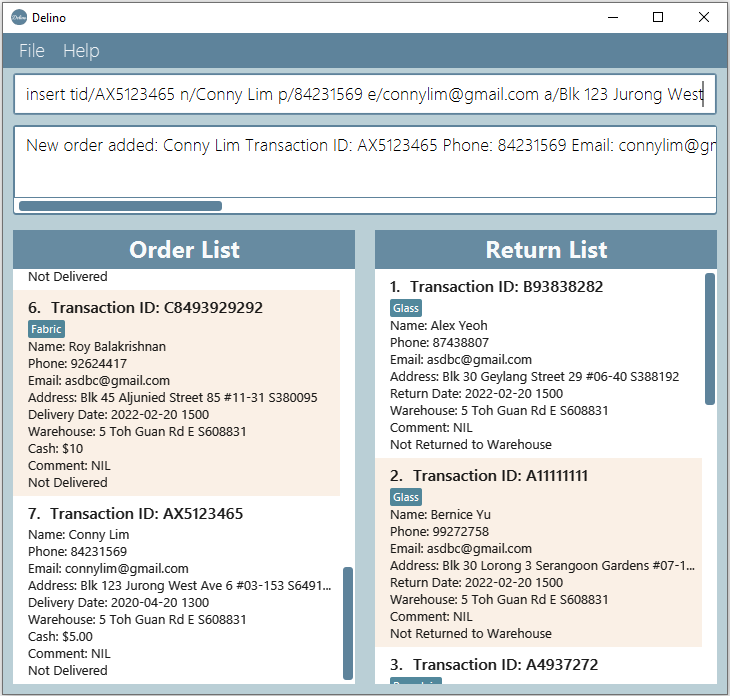
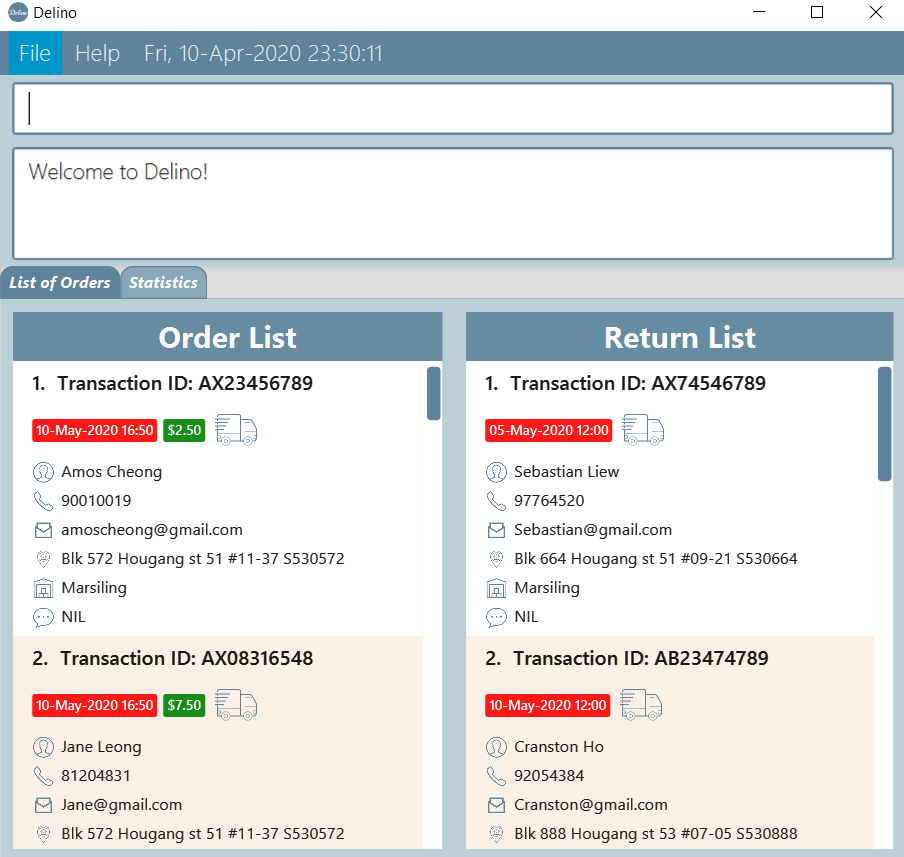
Rebuild pages at 79c6d8f9eea6ae6a86967fa99f5e92033f108ee2

diff --git a/team/khsc96.html b/team/khsc96.html
@@ -79,10 +79,10 @@ This feature requires a thorough understanding of the existing code of AB3 such 
 <p>Changes to all asiicdoc files title to match our app Delino (Pull request <a href="https://github.com/AY1920S2-CS2103T-W12-1/main/pull/92">#92</a>).</p>
 </li>
 <li>
-<p>Improve UI of Delino (Pull requests: <a href="https://github.com/AY1920S2-CS2103T-W12-1/main/pull/209">#209</a>, <a href="https://github.com/AY1920S2-CS2103T-W12-1/main/pull/221">#221</a>)</p>
+<p>Improve UI of Delino (Pull requests: <a href="https://github.com/AY1920S2-CS2103T-W12-1/main/pull/209">#209</a>, <a href="https://github.com/AY1920S2-CS2103T-W12-1/main/pull/221">#221</a>).</p>
 </li>
 <li>
-<p>Refine constraint of receiver name (Pull requests: <a href="https://github.com/AY1920S2-CS2103T-W12-1/main/pull/305">#305</a>)</p>
+<p>Allow user to easily see the time in Delino by adding a real-time clock (Pull requests: <a href="https://github.com/AY1920S2-CS2103T-W12-1/main/pull/336">#336</a>).</p>
 </li>
 </ol>
 </div>
@@ -1079,5 +1079,86 @@ However, if <code><a href="#command_prefix">ORDER_ATTRIBUTE_PREFIX</a></code> is
 </div>
 </div>
 </div>
+<div class="sect2">
+<h3 id="edit-orders"><a class="link" href="#edit-orders">Edit orders</a></h3>
+<div class="olist arabic">
+<ol class="arabic">
+<li>
+<p>Edit the details of the delivery order by specifying the <code><a href="#command_flag">FLAG</a></code> (order type), <code>INDEX</code> (parcel number displayed), <code><a href="#command_prefix">ORDER_ATTRIBUTE_PREFIX</a></code> (the field user want to change) and <code>NEW_VALUE</code> (the new value that user want to replace the old ones with). For detailed implementation explanation click <a href="#edit">here</a>.</p>
+<div class="olist loweralpha">
+<ol class="loweralpha" type="a">
+<li>
+<p>Prerequisite: Call the <code><a href="#list">list</a></code> command to show something or <code><a href="#insert">insert</a></code>/<code><a href="#return">return</a></code> command to add something before you can <code><a href="#edit">edit</a></code>.</p>
+</li>
+<li>
+<p>Edit command format: <code>edit</code> <code><a href="#command_flag">FLAG</a></code> <code>INDEX</code> <code><a href="#command_prefix">ORDER_ATTRIBUTE_PREFIX</a>/NEW_VALUE</code></p>
+</li>
+<li>
+<p>Test case: <code>edit</code> <code>-r</code> <code>1</code> <code>n/Xuan En</code><br>
+Expected: The first index customer&#8217;s name is changed to Xuan En.</p>
+</li>
+<li>
+<p>Test case: <code>edit</code> <code>-o</code> <code>2</code> <code>p/99521654</code><br>
+Expected: The second index phone number is changed to 9952 1654.</p>
+</li>
+<li>
+<p>Test case: <code>edit</code> <code>-o</code> <code>1</code> <code>a/Blk 123 Pasir Ris street 51 #12-23 S510123</code><br>
+Expected: The first index is edited where the address of the customer of the order will be changed to Blk 123 Pasir Ris Street 51 #12-23 S510123.</p>
+</li>
+<li>
+<p>Test case: <code>edit</code> <code>-r</code> <code>2</code> <code>n/Mr Tan</code> <code>p/98776655</code> <code>a/Blk 888 Jurong East street 2 #01-02 S609601</code><br>
+Expected: The second index of the list is edited. The name is changed to Mr Tan, phone number changed to 98776655 and address will be changed to Blk 888 Jurong East street 2 #01-02 S609601.</p>
+</li>
+<li>
+<p>Test case: <code>edit</code> <code>-o</code> <code>1</code> <code>dts/09/08/2020</code><br>
+Expected: The delivery date of the first index of the customer will be rescheduled to 09/08/2020.</p>
+</li>
+<li>
+<p>Test case: <code>edit</code> <code>-r</code> <code>1</code> <code>rts/02/02/1900</code><br>
+Expected: The response box will display an error message as it is impossible to put a date that is already passed.</p>
+</li>
+</ol>
 </div>
-</div></div><div id="footer"><div class="container"><div id="footer-text">Last updated 2020-04-10 17:25:43 UTC</div></div></div></body></html>
+</li>
+</ol>
+</div>
+</div>
+<div class="sect2">
+<h3 id="search-an-order"><a class="link" href="#search-an-order">Search an order</a></h3>
+<div class="olist arabic">
+<ol class="arabic">
+<li>
+<p>Search an order based on the <code>KEYWORD</code> and <code>FLAG</code>(if any) given. For a more detailed explanation of the implementation click <a href="#search">here</a>.</p>
+<div class="olist loweralpha">
+<ol class="loweralpha" type="a">
+<li>
+<p>Search command format: <code>search</code> <code><a href="#command_flag">FLAG</a></code> <code>KEYWORD</code></p>
+</li>
+<li>
+<p>Test case: <code>list</code> <code>done</code><br>
+<code>search</code> <code>-r</code> <code>Jeremy Loh</code><br>
+Expected: Specifically search for any return order from the return order list that has any field matching the keyword of either <code>Jeremy</code>, <code>Loh</code> or both and print it to the user.</p>
+</li>
+<li>
+<p>Test case: <code>list</code> <code>undone</code><br>
+<code>search</code> <code>-o</code> <code>tid/asj2od3943</code><br>
+Expected: Specifically search for any order from the order list that has a Transaction id of <code>asj2od3943</code> and print it out to the user.</p>
+</li>
+<li>
+<p>Test case: <code>list</code><br>
+<code>search</code> <code>n/Jeremy</code><br>
+   Expected: Specifically search for both return order or order from both list that has one word of the name matching the key word <code>Jeremy</code>.</p>
+</li>
+<li>
+<p>Test case: <code>list</code><br>
+<code>search</code><br>
+   Expected: An error message will appear in the response box, stating that the argument cannot be empty and there are no changes to the list itself.</p>
+</li>
+</ol>
+</div>
+</li>
+</ol>
+</div>
+</div>
+</div>
+</div></div><div id="footer"><div class="container"><div id="footer-text">Last updated 2020-04-10 17:37:24 UTC</div></div></div></body></html>

diff --git a/UserGuide.html b/UserGuide.html
@@ -371,6 +371,20 @@ The <code>insert</code> Command is in charge of this functionality.</p>
 </div>
 <div class="sect3">
 <h4 id="insert-works"><a class="link" href="#insert-works">3.2.1. How to use the Insert Command</a></h4>
+<div class="admonitionblock important">
+<table>
+<tr>
+<td class="icon">
+<i class="fa icon-important" title="Important"></i>
+</td>
+<td class="content">
+<div class="paragraph">
+<p>Orders inserted are sorted by their delivery date and time.</p>
+</div>
+</td>
+</tr>
+</table>
+</div>
 <div class="paragraph">
 <p>Here are the steps on using the <code>insert</code> Command:<br></p>
 </div>
@@ -573,6 +587,20 @@ You can use this <code>return</code> command to create a new return order to be 
 </div>
 <div class="sect3">
 <h4 id="return-works"><a class="link" href="#return-works">3.3.1. How to use the Return command?</a></h4>
+<div class="admonitionblock important">
+<table>
+<tr>
+<td class="icon">
+<i class="fa icon-important" title="Important"></i>
+</td>
+<td class="content">
+<div class="paragraph">
+<p>Return orders inserted are sorted by their delivery date and time.</p>
+</div>
+</td>
+</tr>
+</table>
+</div>
 <div class="paragraph">
 <p>Here is how you can convert an order into a return order or create a new return order by following the steps below:</p>
 </div>
@@ -3386,4 +3414,4 @@ OR<br>
 </table>
 </div>
 </div>
-</div></div><div id="footer"><div class="container"><div id="footer-text">Last updated 2020-04-10 17:25:43 UTC</div></div></div></body></html>
+</div></div><div id="footer"><div class="container"><div id="footer-text">Last updated 2020-04-10 17:37:24 UTC</div></div></div></body></html>

diff --git a/team/cherweijie.html b/team/cherweijie.html
@@ -286,6 +286,20 @@ You can use this <code>return</code> command to create a new return order to be 
 </div>
 <div class="sect3">
 <h4 id="return-works"><a class="link" href="#return-works">How to use the Return command?</a></h4>
+<div class="admonitionblock important">
+<table>
+<tr>
+<td class="icon">
+<i class="fa icon-important" title="Important"></i>
+</td>
+<td class="content">
+<div class="paragraph">
+<p>Return orders inserted are sorted by their delivery date and time.</p>
+</div>
+</td>
+</tr>
+</table>
+</div>
 <div class="paragraph">
 <p>Here is how you can convert an order into a return order or create a new return order by following the steps below:</p>
 </div>
@@ -2136,7 +2150,7 @@ Expected: Specifically search for any order from the order list that has a Trans
 <li>
 <p>Test case: <code>list</code><br>
 <code>search</code><br>
-Expected: An error message will appear in the response box, stating that the argument cannot be empty and there are no changes to the list itself.</p>
+   Expected: An error message will appear in the response box, stating that the argument cannot be empty and there are no changes to the list itself.</p>
 </li>
 </ol>
 </div>
@@ -2807,4 +2821,4 @@ Expected: An error will occur and the response box will show an error message</p
 </div>
 </div>
 </div>
-</div></div><div id="footer"><div class="container"><div id="footer-text">Last updated 2020-04-10 17:25:43 UTC</div></div></div></body></html>
+</div></div><div id="footer"><div class="container"><div id="footer-text">Last updated 2020-04-10 17:37:24 UTC</div></div></div></body></html>

diff --git a/team/amoscheong97.html b/team/amoscheong97.html
@@ -255,6 +255,20 @@ The <code>insert</code> Command is in charge of this functionality.</p>
 </div>
 <div class="sect3">
 <h4 id="insert-works"><a class="link" href="#insert-works">How to use the Insert Command</a></h4>
+<div class="admonitionblock important">
+<table>
+<tr>
+<td class="icon">
+<i class="fa icon-important" title="Important"></i>
+</td>
+<td class="content">
+<div class="paragraph">
+<p>Orders inserted are sorted by their delivery date and time.</p>
+</div>
+</td>
+</tr>
+</table>
+</div>
 <div class="paragraph">
 <p>Here are the steps on using the <code>insert</code> Command:<br></p>
 </div>
@@ -1323,4 +1337,4 @@ Expected: An error will occur, a message will appear in the response box, indica
 </div>
 </div>
 </div>
-</div></div><div id="footer"><div class="container"><div id="footer-text">Last updated 2020-04-10 17:25:43 UTC</div></div></div></body></html>
+</div></div><div id="footer"><div class="container"><div id="footer-text">Last updated 2020-04-10 17:37:24 UTC</div></div></div></body></html>

diff --git a/DeveloperGuide.html b/DeveloperGuide.html
@@ -4035,7 +4035,7 @@ Expected: Specifically search for any order from the order list that has a Trans
 <li>
 <p>Test case: <code>list</code><br>
 <code>search</code><br>
-Expected: An error message will appear in the response box, stating that the argument cannot be empty and there are no changes to the list itself.</p>
+   Expected: An error message will appear in the response box, stating that the argument cannot be empty and there are no changes to the list itself.</p>
 </li>
 </ol>
 </div>
@@ -4308,4 +4308,4 @@ Expected: The response box will display an invalid command message</p>
 </div>
 </div>
 </div>
-</div></div><div id="footer"><div class="container"><div id="footer-text">Last updated 2020-04-10 17:25:43 UTC</div></div></div></body></html>
+</div></div><div id="footer"><div class="container"><div id="footer-text">Last updated 2020-04-10 17:37:24 UTC</div></div></div></body></html>

diff --git a/index.html b/index.html
@@ -68,6 +68,9 @@ while still enjoying the benefits of a Graphical User Interface (GUI)</p>
 <li>
 <p>AddressBook-Level3 project created by SE-EDU initiative at <a href="https://se-education.org" class="bare">https://se-education.org</a></p>
 </li>
+<li>
+<p>Clock in Delino is adapted from this answer found in <a href="https://stackoverflow.com/a/52785067">StackOverFlow</a>.</p>
+</li>
 </ul>
 </div>
 </div>
@@ -77,4 +80,4 @@ while still enjoying the benefits of a Graphical User Interface (GUI)</p>
 <div class="sectionbody">
 
 </div>
-</div></div><div id="footer"><div class="container"><div id="footer-text">Last updated 2020-04-10 17:25:43 UTC</div></div></div></body></html>
+</div></div><div id="footer"><div class="container"><div id="footer-text">Last updated 2020-04-10 17:37:24 UTC</div></div></div></body></html>

diff --git a/tutorials/RemovingFields.html b/tutorials/RemovingFields.html
@@ -175,4 +175,4 @@ While keeping the <code>address</code> field in the json files does not cause th
 <p>You can go through each individual <code>json</code> file and manually remove the <code>address</code> field.</p>
 </div>
 </div>
-</div></div><div id="footer"><div class="container"><div id="footer-text">Last updated 2020-04-10 17:25:43 UTC</div></div></div></body></html>
+</div></div><div id="footer"><div class="container"><div id="footer-text">Last updated 2020-04-10 17:37:24 UTC</div></div></div></body></html>

diff --git a/team/UMLDiagrams/[CS2103T-W12-01][Cher Wei Jie]UMLDiagrams.html b/team/UMLDiagrams/[CS2103T-W12-01][Cher Wei Jie]UMLDiagrams.html
@@ -141,4 +141,4 @@ executed. A <code>help</code> command is only valid if there are no non-whitespa
 command word. The <code>help</code> command is used for displaying Delino&#8217;s list of commands to the user.</p>
 </div>
 </div>
-</div></div><div id="footer"><div class="container"><div id="footer-text">Last updated 2020-04-10 17:25:43 UTC</div></div></div></body></html>
+</div></div><div id="footer"><div class="container"><div id="footer-text">Last updated 2020-04-10 17:37:24 UTC</div></div></div></body></html>

diff --git a/Testing.html b/Testing.html
@@ -90,4 +90,4 @@ e.g. <code>seedu.address.logic.LogicManagerTest</code></p>
 <div class="title">Figure 1. <code>Accessibility</code> permission is granted to <code>IntelliJ IDEA</code></div>
 </div>
 </div>
-</div></div><div id="footer"><div class="container"><div id="footer-text">Last updated 2020-04-10 17:25:43 UTC</div></div></div></body></html>
+</div></div><div id="footer"><div class="container"><div id="footer-text">Last updated 2020-04-10 17:37:24 UTC</div></div></div></body></html>

diff --git a/team/UMLDiagrams/[CS2103T-W12-01][Amos Cheong Jit Hon]UMLDiagrams.html b/team/UMLDiagrams/[CS2103T-W12-01][Amos Cheong Jit Hon]UMLDiagrams.html
@@ -126,4 +126,4 @@ during execution. Developers will be able to understand how does other class obj
 object when the user inputs a command.</p>
 </div>
 </div>
-</div></div><div id="footer"><div class="container"><div id="footer-text">Last updated 2020-04-10 17:25:43 UTC</div></div></div></body></html>
+</div></div><div id="footer"><div class="container"><div id="footer-text">Last updated 2020-04-10 17:37:24 UTC</div></div></div></body></html>

diff --git a/team/UMLDiagrams/[CS2103T-W12-01][Loh Jeremy Wen Jun]UML Diagrams.html b/team/UMLDiagrams/[CS2103T-W12-01][Loh Jeremy Wen Jun]UML Diagrams.html
@@ -105,4 +105,4 @@ This allows developers to understand where an exception is thrown for
 an invalid <code>nearby</code> command.</p>
 </div>
 </div>
-</div></div><div id="footer"><div class="container"><div id="footer-text">Last updated 2020-04-10 17:25:43 UTC</div></div></div></body></html>
+</div></div><div id="footer"><div class="container"><div id="footer-text">Last updated 2020-04-10 17:37:24 UTC</div></div></div></body></html>

diff --git a/team/exeexe93.html b/team/exeexe93.html
@@ -1598,4 +1598,4 @@ Expected: In the response box, a message will appear to indicate that the import
 </div>
 </div>
 </div>
-</div></div><div id="footer"><div class="container"><div id="footer-text">Last updated 2020-04-10 17:25:43 UTC</div></div></div></body></html>
+</div></div><div id="footer"><div class="container"><div id="footer-text">Last updated 2020-04-10 17:37:24 UTC</div></div></div></body></html>
